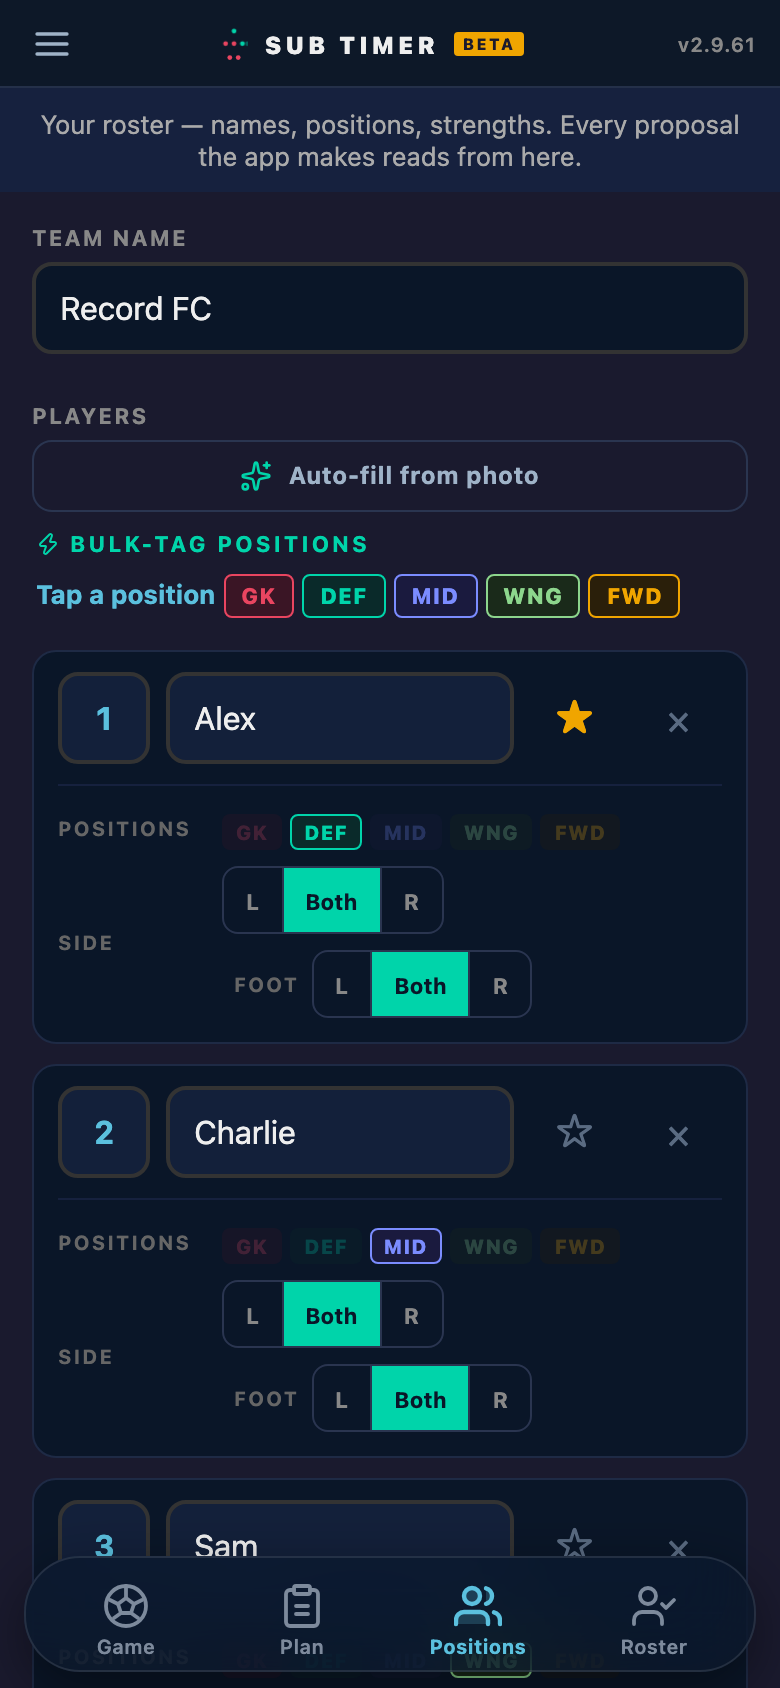
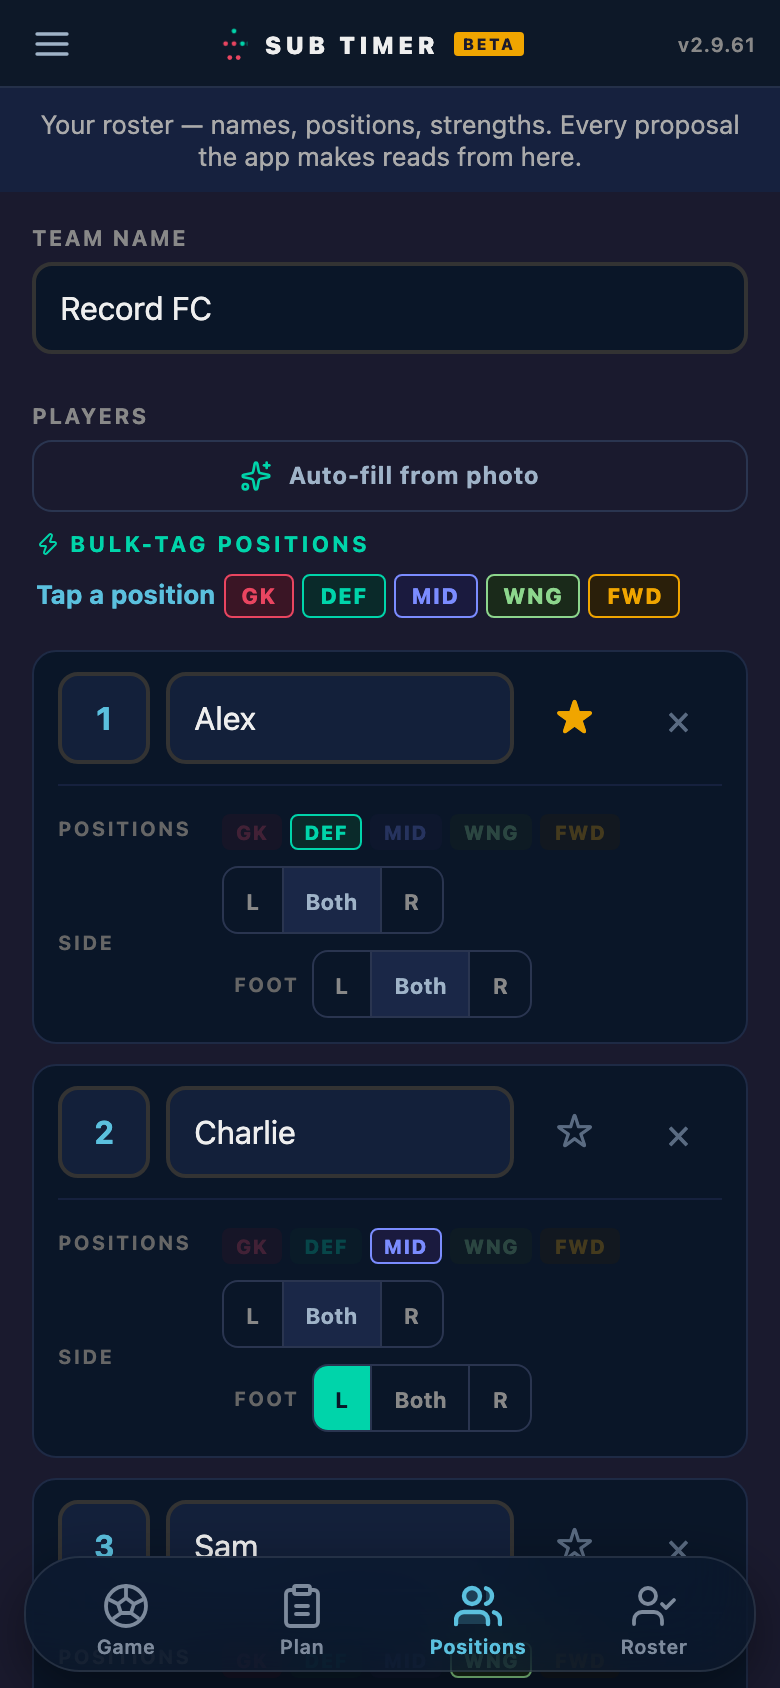
v2.9.61: Side/Foot — 'Both' quiet, only a deliberate L/R lights up (owner: footing overbearing)

Changed region(s): [[0.3385, 0.7393, 0.6154, 0.8626], [0.3385, 0.4929, 0.6154, 0.6161]]

diff --git a/index.html b/index.html
@@ -133,7 +133,11 @@ body.editor-has-players #posTagsHint .bulk-prose{display:none}
 .pe-seg{display:inline-flex;border:1px solid #2a3550;border-radius:8px;overflow:hidden}
 .pe-seg button{min-height:32px;padding:0 11px;font-size:11px;font-weight:700;cursor:pointer;border:none;background:transparent;color:#888;font-family:inherit}
 .pe-seg button+button{border-left:1px solid #2a3550}
-.pe-seg button.sel{background:#00d4aa;color:#0a1628}
+/* v2.9.61 (owner: "the footing is quite overbearing in the card"): 'Both' is the
+   default — selected but QUIET (a light neutral); only a deliberate L or R earns
+   the solid accent fill, so a left-footer stands out and everyone else is calm. */
+.pe-seg button.sel{background:#1a2747;color:#9fb3c8}
+.pe-seg button.sel.side-set{background:#00d4aa;color:#0a1628}
 .pe-sub{font-size:10px;font-weight:700;letter-spacing:1px;text-transform:uppercase;color:#666;margin-left:6px}
 .pe-star{color:#5a6b82;font-size:20px;line-height:1;flex:none}
 .pe-star.on{color:#f0a500}
@@ -6435,7 +6439,7 @@ function renderEditTeam(){
         opts.forEach((o)=>{
           const btn=document.createElement('button');
           btn.type='button';
-          if(curVal===o.v) btn.classList.add('sel');
+          if(curVal===o.v){ btn.classList.add('sel'); if(o.v!=='B') btn.classList.add('side-set'); }
           btn.setAttribute('aria-label',label+': '+o.t);
           btn.textContent=o.t;
           btn.onclick=(e)=>{e.preventDefault();onPick(o.v);};

diff --git a/CHANGELOG.md b/CHANGELOG.md
@@ -6,7 +6,7 @@ All notable changes to the app, by version. The in-app "What's New" modal pulls 
 
 ## v2.9.61-beta — Positions page: the roster comes first (owner backlog from 2026-08-15: "these two bits are taking up a lot of room especially once you have created a team already")
 
-`renderEditTeam` toggles `body.editor-has-players` when the roster has any real name; CSS then collapses the three setup helpers: `#rosterImportBtn` → a quiet one-line ghost row (icon + "Auto-fill from photo", subtitle hidden), `#sampleSquadBtn` hidden, `#posTagsHint` → bare chip row (the explanatory prose sits in `.bulk-prose`, hidden). An empty new team keeps the full-size guidance. The first player row moves from ~y=560 to ~y=324 at 390px. **Also (owner: "the player detail pills better laid out" · "delete a player shouldn't be so obvious"):** each player is a `.pe-block` — name row `# · name · ★ · ×`, then a `.pe-grid` (72px label column) with **Positions** and **Side / Foot** rows aligned down the page; segmented pickers get a 32px hit height and aria-labels; ★ moves into the name row (`togglePlayerStar`) so it never wraps; the remove control is a quiet grey glyph (red only while pressed — §5.0: red for the moment of danger, not decoration), 44px hit area. Three lines per player instead of five. Then owner: "put each player's attributes into a unified card" — `.pe-block` is a card (`#0a1628`, hairline border, 12px radius), name row on top, hairline, attribute grid inside; inputs sit on the darker `--surface-input`. Owner-stamped as an exception to §5.0's box-per-row rule: a player is an entity, not a settings row.
+`renderEditTeam` toggles `body.editor-has-players` when the roster has any real name; CSS then collapses the three setup helpers: `#rosterImportBtn` → a quiet one-line ghost row (icon + "Auto-fill from photo", subtitle hidden), `#sampleSquadBtn` hidden, `#posTagsHint` → bare chip row (the explanatory prose sits in `.bulk-prose`, hidden). An empty new team keeps the full-size guidance. The first player row moves from ~y=560 to ~y=324 at 390px. **Also (owner: "the player detail pills better laid out" · "delete a player shouldn't be so obvious"):** each player is a `.pe-block` — name row `# · name · ★ · ×`, then a `.pe-grid` (72px label column) with **Positions** and **Side / Foot** rows aligned down the page; segmented pickers get a 32px hit height and aria-labels; ★ moves into the name row (`togglePlayerStar`) so it never wraps; the remove control is a quiet grey glyph (red only while pressed — §5.0: red for the moment of danger, not decoration), 44px hit area. Three lines per player instead of five. Then owner: "put each player's attributes into a unified card" — `.pe-block` is a card (`#0a1628`, hairline border, 12px radius), name row on top, hairline, attribute grid inside; inputs sit on the darker `--surface-input`. Owner-stamped as an exception to §5.0's box-per-row rule: a player is an entity, not a settings row. Then owner: "the footing is quite overbearing in the card" — Side/Foot 'Both' is the default and now sits selected-but-quiet (light neutral); only a deliberate L or R earns the solid accent fill, so a left-footer stands out and every other card is calm.
 
 ## v2.9.60-beta — One Plan page (owner: "I'm thinking the settings and sub plan actually merge — a lot of it is duplicated" · "make it clean in style like the current settings page")
 
